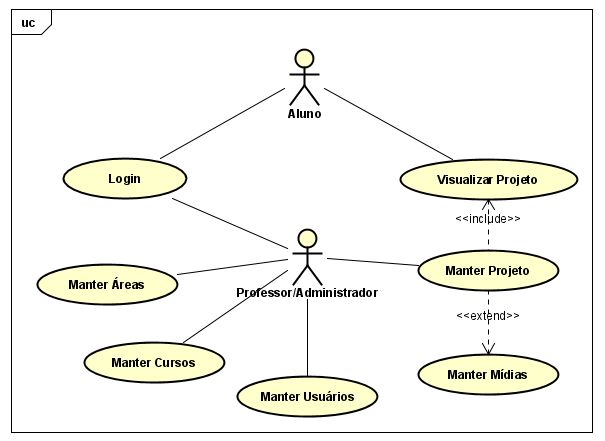
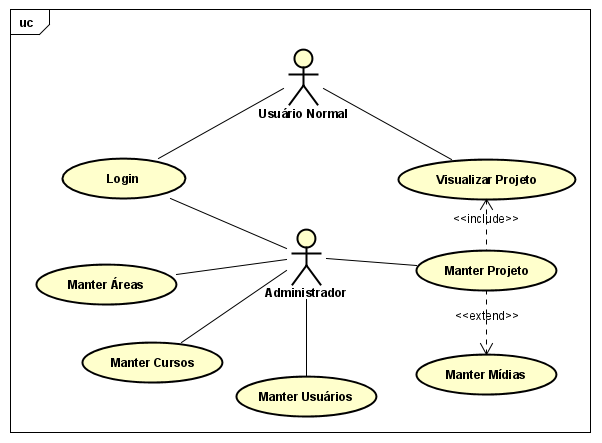
Correção Tipos de Usuários

diff --git a/App/Utils/Session.php b/App/Utils/Session.php
@@ -37,8 +37,8 @@
         }
 
         /**
-         * Método responsável por verificar se o usuário é Professor/Administrador.
-         * @return bool True se o usuário for um Professor/Administrador e false se não for
+         * Método responsável por verificar se o usuário é Administrador.
+         * @return bool True se o usuário for um Administrador e false se não for
          */
         public static function isAdmin() : bool {
             return $_SESSION["isAdmin"] == 1;
@@ -66,7 +66,7 @@
                 Response::returnResponse(Response::USER_LOGGED_DOES_NOT_EXIST, 401, "warning");
             }
 
-            if (!Session::isAdmin()) // Middleware: verifica se o usuário é um Professor/Administrador.
+            if (!Session::isAdmin()) // Middleware: verifica se o usuário é um Administrador.
                 Response::returnResponse(Response::INVALID_PERMISSION, 403, "warning");
         }
 

diff --git a/App/Views/Users/formModal.php b/App/Views/Users/formModal.php
@@ -52,10 +52,10 @@
                 SELECIONE O TIPO DE USUÁRIO
             </option>
             <option value="1">
-                Professor(a)
+                Administrador(a)
             </option>
             <option value="0">
-                Aluno(a)
+                Normal
             </option>
         </select>
     </div>
